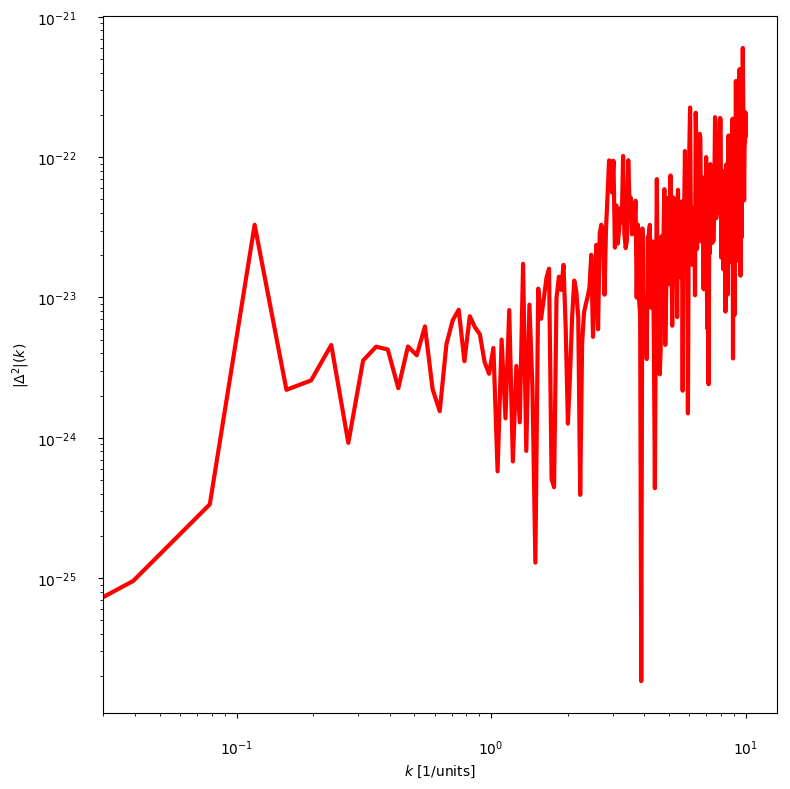
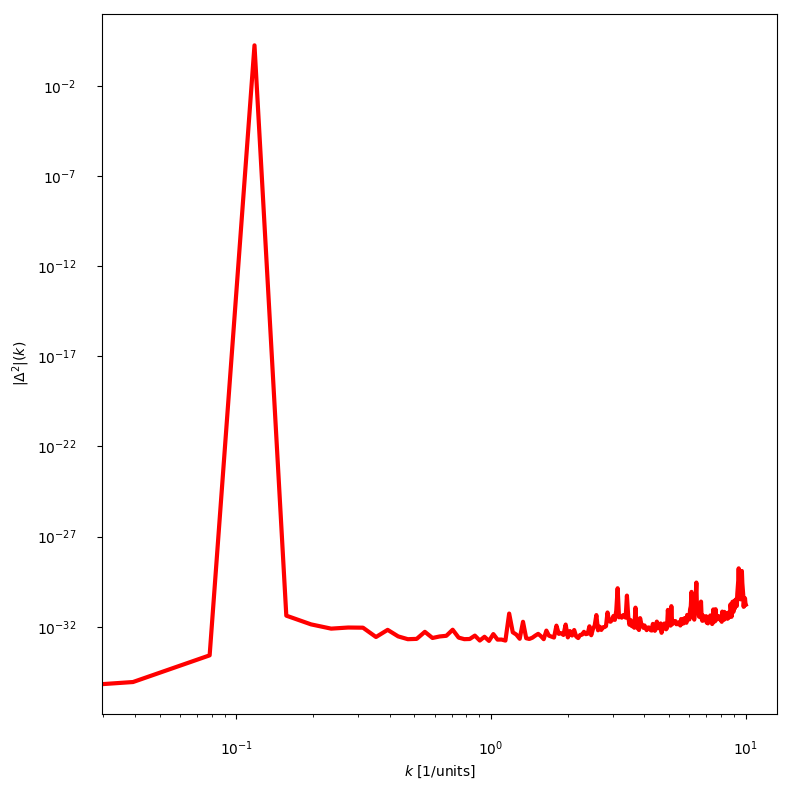
fixed a bug in the power spectrum calculation and refactored

diff --git a/src/lib.rs b/src/lib.rs
@@ -168,21 +168,19 @@ pub fn load_grid(config: &Config, num: usize) -> Result<AlignedVec<c64>, &'stati
     Ok(grid)
 }
 
-/// Calculates the cross power spectrum of the given 3D grids (note if the same
-/// grid is given twice then this is the auto power spectrum).
+/// Performs FFT on grids
 ///
 /// # Examples
 ///
 /// ```
 /// let output: Output = correlate(&config, grid1, grid2).unwrap();
 /// ```
-pub fn correlate(
+pub fn perform_fft(
     config: &Config,
     mut grid1: AlignedVec<c64>,
     mut grid2: AlignedVec<c64>,
-) -> Result<Output, &'static str> {
+) -> Result<(AlignedVec<c64>, AlignedVec<c64>), &'static str> {
     let ngrid: usize = config.ngrid as usize;
-    let boxsize: f64 = config.boxsize as f64;
 
     // Create FFTW plan
     let shape = [ngrid, ngrid, ngrid];
@@ -210,14 +208,32 @@ pub fn correlate(
     println!("\nFFTs performed! Sanity check:");
     for n in 0..10 {
         println!(
-            "grid1[{}] = {} + {}i, out1[{}] = {} + {}i",
+            "grid1[{}] = {:.3e} + {:.3e}i, out1[{}] = {:.3e} + {:.3e}i",
             n, grid1[n].re, grid1[n].im, n, out1[n].re, out1[n].im
         );
         println!(
-            "grid2[{}] = {} + {}i, out2[{}] = {} + {}i",
+            "grid2[{}] = {:.3e} + {:.3e}i, out2[{}] = {:.3e} + {:.3e}i",
             n, grid2[n].re, grid2[n].im, n, out2[n].re, out2[n].im
         );
     }
+    Ok((out1, out2))
+}
+
+/// Calculates the cross power spectrum of the given 3D grids (note if the same
+/// grid is given twice then this is the auto power spectrum).
+///
+/// # Examples
+///
+/// ```
+/// let output: Output = correlate(&config, grid1, grid2).unwrap();
+/// ```
+pub fn correlate(
+    config: &Config,
+    out1: AlignedVec<c64>,
+    out2: AlignedVec<c64>,
+) -> Result<Output, &'static str> {
+    let ngrid: usize = config.ngrid as usize;
+    let boxsize: f64 = config.boxsize as f64;
 
     // Calculate power spectrum
     let kf: f64 = 2.0 * PI / boxsize;
@@ -225,10 +241,10 @@ pub fn correlate(
     let nhalf: usize = ngrid / 2;
 
     let mut w: Vec<f64> = Vec::with_capacity(ngrid);
-    for i in 0..nhalf {
+    for i in 0..(nhalf + 1) {
         w.push(kf * (i as f64));
     }
-    for i in nhalf..ngrid {
+    for i in (nhalf + 1)..ngrid {
         w.push(kf * ((i as isize - ngrid as isize) as f64));
     }
 
@@ -236,11 +252,11 @@ pub fn correlate(
     let mut iweights: Vec<i64> = vec![0; ngrid];
 
     for i in 0..ngrid {
-        let iper = if i > nhalf { ngrid - i } else { i };
+        let iper = if i >= nhalf { ngrid - i } else { i };
         for j in 0..ngrid {
-            let jper = if j > nhalf { ngrid - j } else { j };
+            let jper = if j >= nhalf { ngrid - j } else { j };
             for k in 0..ngrid {
-                let kper = if k > nhalf { ngrid - k } else { k };
+                let kper = if k >= nhalf { ngrid - k } else { k };
                 let r: f64 = (iper * iper + jper * jper + kper * kper) as f64;
                 let m: usize = (0.5 + r.sqrt()) as usize;
                 iweights[m] += 1;
@@ -250,13 +266,13 @@ pub fn correlate(
                     let scale: usize = (0.5 + (g * coeff).sqrt()) as usize;
                     let index: usize = k + ngrid * (j + ngrid * i);
                     let contrib: Complex<f64> =
-                        out1[index] + out2[index].conj() + out1[index].conj() + out2[index];
+                        out1[index] * out2[index].conj() + out1[index].conj() * out2[index];
                     pow_spec[scale] += contrib.re / 2.0;
                 }
             }
         }
     }
-    println!("Power spectrum calculated. Normalising...");
+    println!("\nPower spectrum calculated. Normalising...");
 
     // Normalise power spectrum
     let pisq: f64 = 2.0 * PI * PI;

diff --git a/examples/contrast.rs b/examples/contrast.rs
@@ -3,7 +3,6 @@ use std::env;
 use std::fs::File;
 use std::io::{BufReader, BufWriter};
 
-
 /// Calculate the contrast from mean, delta = (x - mean(x))/mean(x), for a
 /// gridded field
 fn main() -> std::io::Result<()> {
@@ -13,11 +12,11 @@ fn main() -> std::io::Result<()> {
 
     let grid_in = &args[2];
     let grid_out = &args[3];
-    
+
     // Read in original grid
-    let mut data: Vec<f64> = vec![0.0; ngrid*ngrid*ngrid];
+    let mut data: Vec<f64> = vec![0.0; ngrid * ngrid * ngrid];
     read_binary(&grid_in, &mut data)?;
-   
+
     // Sanity prints
     for i in 0..5 {
         println!("data[{}] = {}", i, data[i]);
@@ -25,7 +24,7 @@ fn main() -> std::io::Result<()> {
 
     // Update grid
     update_data(&mut data);
-    
+
     // Sanity prints
     println!("After updating...");
     for i in 0..5 {
@@ -43,7 +42,7 @@ fn read_binary(filename: &String, grid: &mut Vec<f64>) -> std::io::Result<()> {
     _read_binary_f32(filename, grid)
     // _read_binary_f64(filename, grid)
 }
-    
+
 fn _read_binary_f64(filename: &String, grid: &mut Vec<f64>) -> std::io::Result<()> {
     let file = File::open(filename)?;
     println!("opened: {}", filename);
@@ -69,7 +68,7 @@ fn _read_binary_f32(filename: &String, grid: &mut Vec<f64>) -> std::io::Result<(
 
     Ok(())
 }
-    
+
 fn write_binary(filename: &String, grid: Vec<f64>) -> std::io::Result<()> {
     let file = File::create(filename)?;
     println!("opened: {}", filename);
@@ -79,7 +78,7 @@ fn write_binary(filename: &String, grid: Vec<f64>) -> std::io::Result<()> {
         buf.write_f64::<NativeEndian>(*val)?;
     }
     println!("finished writing to file!");
-    
+
     Ok(())
 }
 

diff --git a/src/main.rs b/src/main.rs
@@ -2,7 +2,7 @@ use std::env;
 use std::process;
 
 use crosscorr;
-use crosscorr::{correlate, load_grid, Config, Output};
+use crosscorr::{correlate, load_grid, perform_fft, Config, Output};
 
 fn main() {
     // Load configuration
@@ -23,8 +23,14 @@ fn main() {
         process::exit(1);
     });
 
+    // Perform FFT
+    let (out1, out2) = perform_fft(&config, grid1, grid2).unwrap_or_else(|err| {
+        eprintln!("Error: {}", err);
+        process::exit(1);
+    });
+
     // Calculate power spectrum
-    let output: Output = correlate(&config, grid1, grid2).unwrap_or_else(|err| {
+    let output: Output = correlate(&config, out1, out2).unwrap_or_else(|err| {
         eprintln!("Error: {}", err);
         process::exit(1);
     });
